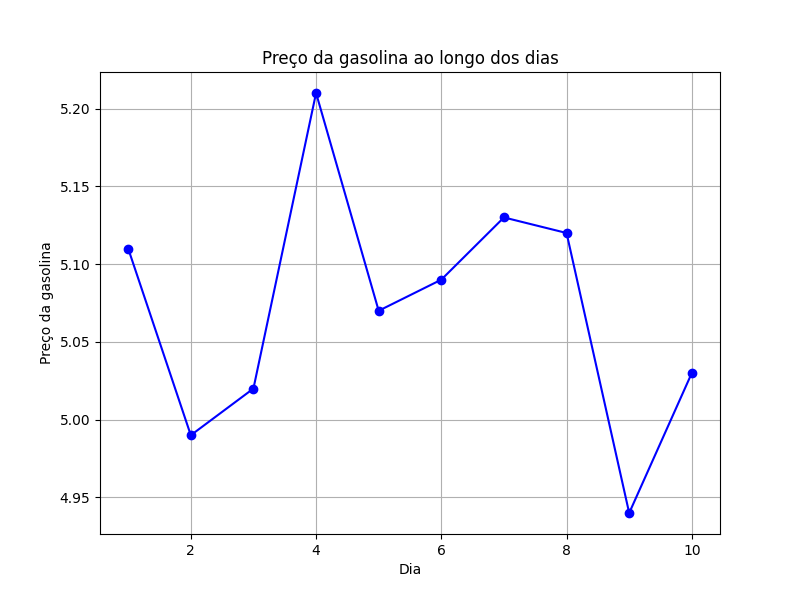
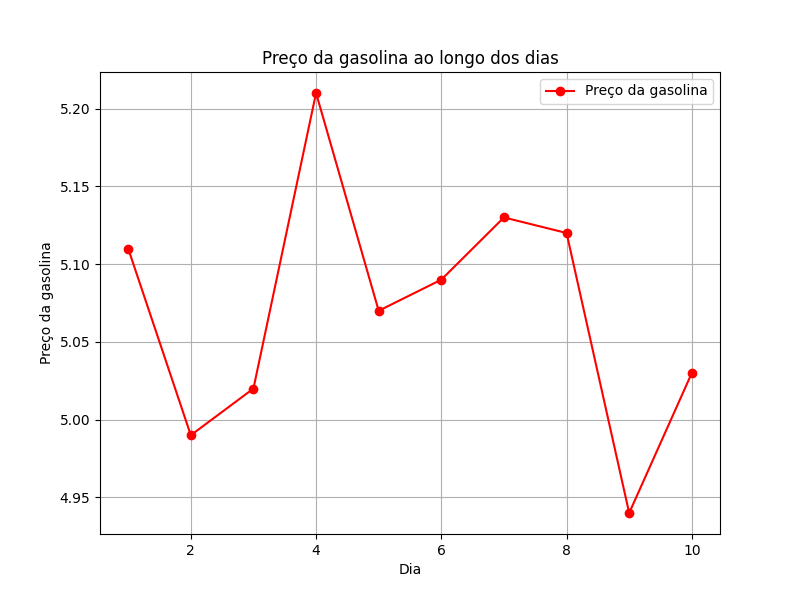
arquivos gasolina.py, gasolina.csv, gasolina.png alterados em develop

diff --git a/gasolina.py b/gasolina.py
@@ -1,0 +1,20 @@
+import pandas as pd
+import matplotlib.pyplot as plt
+
+# lendo arquivo
+df = pd.read_csv("gasolina.csv")
+
+# Criando uma sequência de dias de 1 a 10
+dias = range(1, 11)
+
+# Plotando o gráfico de linha
+plt.figure(figsize=(8, 6))
+plt.plot(dias, df['venda'][:10], marker='o', color='red', label='Preço da gasolina')
+plt.title('Preço da gasolina ao longo dos dias')
+plt.xlabel('Dia')
+plt.ylabel('Preço da gasolina')
+plt.grid(True)
+plt.legend()
+plt.savefig("gasolina.png")
+
+plt.show()
